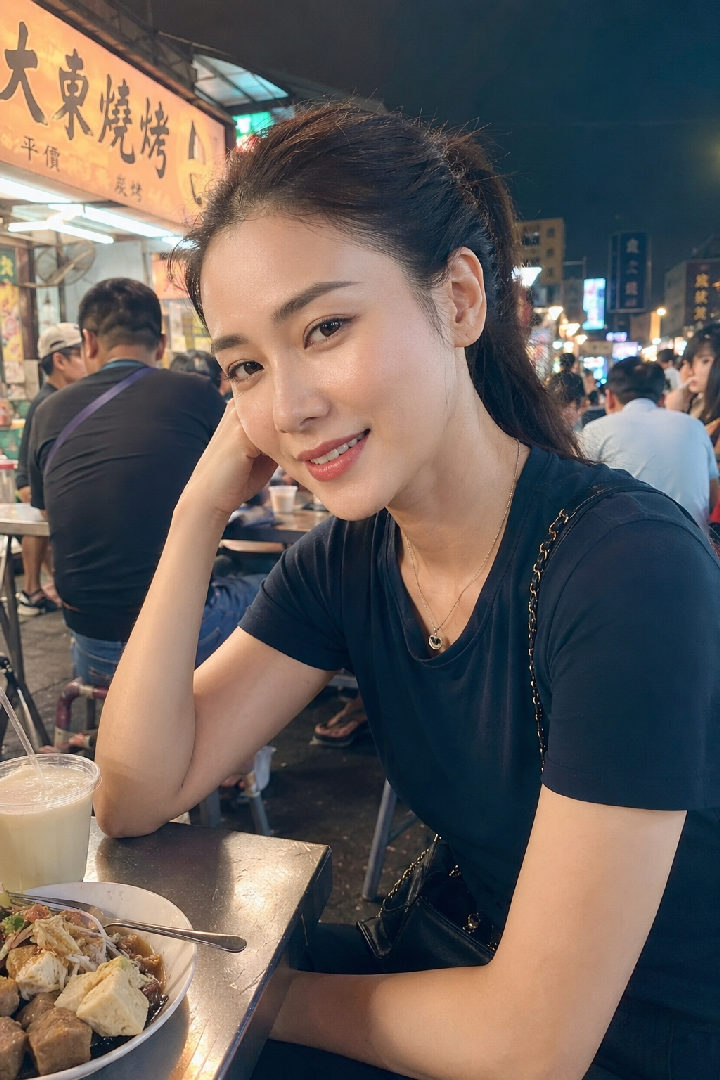
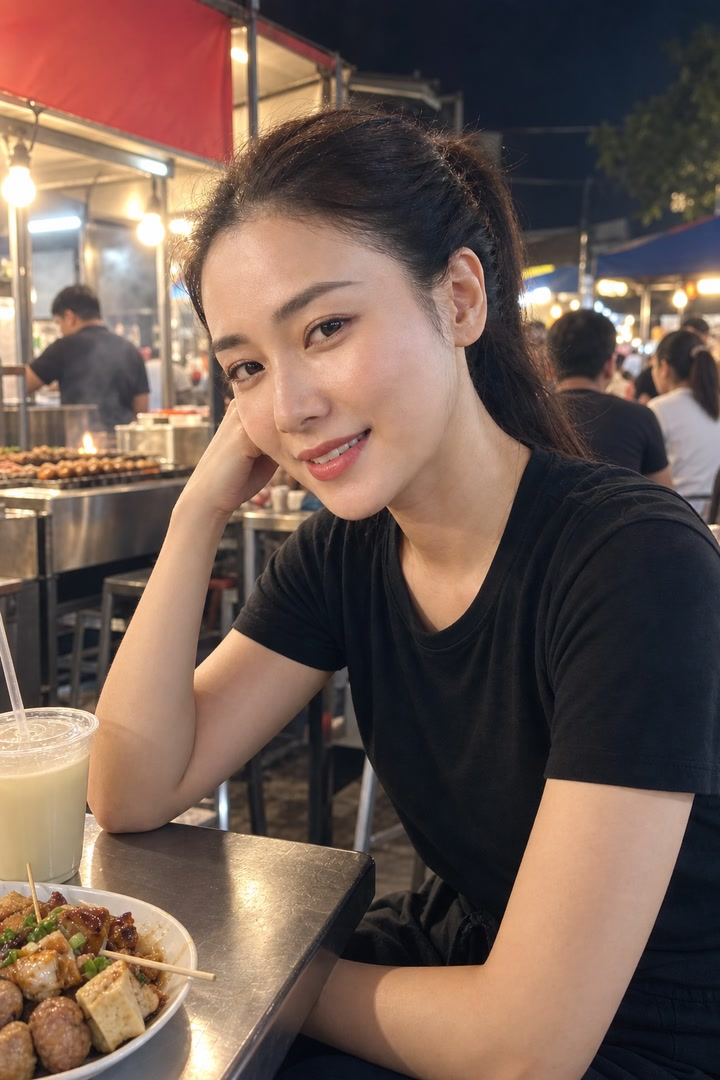
更新練習室五位角色照片與照片描述

diff --git a/supabase/functions/practice-chat/practice_persona.ts b/supabase/functions/practice-chat/practice_persona.ts
@@ -848,7 +848,7 @@ interface GirlSeed {
   /**
    * 她的大頭照裡有什麼（server-only，只進 prompt；client 不鏡像）。≤ 50 字，
    * 寫成她自己會講的事實：只寫照片看得到的、地點只寫類型、不寫品牌／檔名、
-   * 不寫「她」。地標明確到不寫反而穿幫的（023 鐵塔、078 香港電車）寫成一段
+   * 不寫「她」。地標明確到不寫反而穿幫的（023 鐵塔）寫成一段
    * 經歷。2026-09-08 真機：Fiona 被問「你大頭照在巴黎吧」答「淡水河邊拍的」，
    * 根因是照片從未進 prompt（`docs/bug-log.md`）。
    */
@@ -1049,7 +1049,8 @@ const GIRL_SEEDS: readonly GirlSeed[] = [
     interests: ["做指甲", "穿搭", "拍照"],
     lifestyle: ["接客做光療", "逛街找靈感"],
     intro: "幫客人做指甲也聽很多故事，自己也滿愛聊的。",
-    photoScene: "在美甲工作室拍的自拍，後面一排指甲油，手擺在臉旁露出自己做的指甲",
+    photoScene:
+      "在美甲工作室拍的自拍，後面一排指甲油，手擺在臉旁露出自己做的指甲",
   },
   {
     nameId: "katie",
@@ -1079,7 +1080,8 @@ const GIRL_SEEDS: readonly GirlSeed[] = [
     interests: ["搞笑表情", "電影", "美食"],
     lifestyle: ["上課打工", "跟同學聚"],
     intro: "課業跟打工兩頭燒，但很愛跟人鬥嘴。",
-    photoScene: "在學校有大面鏡子的社團教室拍的，穿黑T配酒紅運動短褲，指甲塗藍色",
+    photoScene:
+      "在學校有大面鏡子的社團教室拍的，穿黑T配酒紅運動短褲，指甲塗藍色",
   },
   {
     nameId: "ruby",
@@ -1109,7 +1111,7 @@ const GIRL_SEEDS: readonly GirlSeed[] = [
     interests: ["做菜", "看書", "寵物"],
     lifestyle: ["輪班補眠", "在家放空"],
     intro: "夜班後只想耍廢，但聊得來會慢慢打開。",
-    photoScene: "在辦公室座位拍的自拍，穿淺藍襯衫掛識別證，笑起來看得到牙套",
+    photoScene: "穿淺藍刷手服掛識別證，在醫院走廊自拍，微笑露出牙套",
   },
   {
     nameId: "claire",
@@ -1199,7 +1201,8 @@ const GIRL_SEEDS: readonly GirlSeed[] = [
     interests: ["瑜珈", "藝術", "旅行"],
     lifestyle: ["早課晚課", "進修旅行"],
     intro: "重視身心平衡，也希望相處是舒服而清楚的。",
-    photoScene: "去年去巴黎上瑜珈進修課，在鐵塔前草地野餐時拍的，穿運動內衣、旁邊有野餐籃",
+    photoScene:
+      "去年去巴黎上瑜珈進修課，在鐵塔前草地野餐時拍的，穿運動內衣、旁邊有野餐籃",
   },
   {
     nameId: "celine",
@@ -1364,7 +1367,8 @@ const GIRL_SEEDS: readonly GirlSeed[] = [
     interests: ["藝術", "咖啡", "文青展覽"],
     lifestyle: ["接案趕稿", "逛展"],
     intro: "腦袋常在轉設計，喜歡有想法、聊得深的人。",
-    photoScene: "在一面老石牆前拍的，脖子掛底片相機，橄欖綠T恤外面套米白針織背心",
+    photoScene:
+      "在一面老石牆前拍的，脖子掛底片相機，橄欖綠T恤外面套米白針織背心",
   },
   {
     nameId: "nicole",
@@ -1409,7 +1413,8 @@ const GIRL_SEEDS: readonly GirlSeed[] = [
     interests: ["做指甲", "烘焙", "看書"],
     lifestyle: ["接客做光療", "在家烘焙"],
     intro: "工作很講細節，私下其實慢熱又愛窩在家。",
-    photoScene: "在家廚房拍的，綁兩條辮子戴眼鏡圍圍裙，手拿打蛋器、桌上一盆麵糊",
+    photoScene:
+      "在家廚房拍的，綁兩條辮子戴眼鏡圍圍裙，手拿打蛋器、桌上一盆麵糊",
   },
   {
     nameId: "stella",
@@ -1439,7 +1444,7 @@ const GIRL_SEEDS: readonly GirlSeed[] = [
     interests: ["看書", "咖啡", "做菜"],
     lifestyle: ["規律下班", "在家煮食"],
     intro: "工作要很細心，相處上喜歡清楚穩定的感覺。",
-    photoScene: "在辦公室拍的，穿深色西裝外套戴細框眼鏡、抱著黑色資料夾，比較正式的一張",
+    photoScene: "戴細框眼鏡、穿淺綠工作服在診所櫃台旁，後方有候診座椅",
   },
   {
     nameId: "monica",
@@ -1604,7 +1609,8 @@ const GIRL_SEEDS: readonly GirlSeed[] = [
     interests: ["看書", "咖啡", "旅行"],
     lifestyle: ["專案加班", "假日充電"],
     intro: "工作很拚但很重生活品質，相處希望舒服又尊重。",
-    photoScene: "在辦公大樓外的街上拍的，穿深色西裝外套、背黑色側背包，上下班路上",
+    photoScene:
+      "在辦公大樓外的街上拍的，穿深色西裝外套、背黑色側背包，上下班路上",
   },
   {
     nameId: "jessie",
@@ -1784,7 +1790,8 @@ const GIRL_SEEDS: readonly GirlSeed[] = [
     interests: ["咖啡", "海邊", "拍照"],
     lifestyle: ["早班開店", "下班看夕陽", "假日跑市集"],
     intro: "煮咖啡的時候很專心，放假就想去海邊曬一下。",
-    photoScene: "在自家咖啡店門口拍的，戴老帽穿米色襯衫，門口擺滿植物、旁邊停著機車",
+    photoScene:
+      "在自家咖啡店門口拍的，戴老帽穿米色襯衫，門口擺滿植物、旁邊停著機車",
   },
   {
     nameId: "una",
@@ -1799,7 +1806,8 @@ const GIRL_SEEDS: readonly GirlSeed[] = [
     interests: ["理財", "烘焙", "老屋咖啡"],
     lifestyle: ["規律作息", "週末烘焙", "下班散步"],
     intro: "工作習慣把事情講清楚，感情也喜歡舒服、有分寸。",
-    photoScene: "在一間老屋咖啡廳靠窗位子拍的，戴眼鏡穿深藍開襟衫，桌上一杯咖啡",
+    photoScene:
+      "在一間老屋咖啡廳靠窗位子拍的，戴眼鏡穿深藍開襟衫，桌上一杯咖啡",
   },
   {
     nameId: "lumi",
@@ -1874,7 +1882,7 @@ const GIRL_SEEDS: readonly GirlSeed[] = [
     interests: ["做指甲", "甜點", "拍照"],
     lifestyle: ["接客做彩繪", "逛街找靈感", "週末吃甜點"],
     intro: "幫人變漂亮很有成就感，聊天也要有一點可愛的廢話。",
-    photoScene: "去台南玩時在一間咖啡廳門口座位拍的自拍，穿粉色上衣，桌上抹茶蛋糕和冰拿鐵",
+    photoScene: "穿粉色上衣坐在咖啡廳門口自拍，桌上有抹茶蛋糕和冰拿鐵",
   },
   {
     nameId: "vera",
@@ -2024,7 +2032,7 @@ const GIRL_SEEDS: readonly GirlSeed[] = [
     interests: ["手作", "散步", "心理學"],
     lifestyle: ["陪個案訓練", "下班公園走路", "週末做手作"],
     intro: "工作需要同理心，但私下也很需要被好好尊重。",
-    photoScene: "前陣子去香港玩，在路邊拿著咖啡拍的，後面剛好有雙層電車經過",
+    photoScene: "穿淺色外套、手拿咖啡站在樹蔭步道上，身後是公園綠意",
   },
   {
     nameId: "gigi",
@@ -2144,7 +2152,7 @@ const GIRL_SEEDS: readonly GirlSeed[] = [
     interests: ["調飲", "夜景", "音樂"],
     lifestyle: ["晚班吧台", "白天補眠", "下班吃宵夜"],
     intro: "我很會調味，也很會聽出一句話是不是太油。",
-    photoScene: "晚上在夜市燒烤攤前拍的，穿黑T、桌上一杯飲料一盤小吃",
+    photoScene: "穿黑T坐在夜市燒烤攤前，桌上有一杯飲料和一盤小吃",
   },
   {
     nameId: "mabel",
@@ -2204,7 +2212,8 @@ const GIRL_SEEDS: readonly GirlSeed[] = [
     interests: ["海邊", "小旅行", "手沖咖啡"],
     lifestyle: ["接待旅人", "整理房務", "海邊散步"],
     intro: "每天聽很多旅人的故事，但自己的故事想慢慢說。",
-    photoScene: "在海邊礁岩上拍的，穿白洋裝披灰開襟衫，脖子掛相機，背後是海和山",
+    photoScene:
+      "在海邊礁岩上拍的，穿白洋裝披灰開襟衫，脖子掛相機，背後是海和山",
   },
   {
     nameId: "erin",
